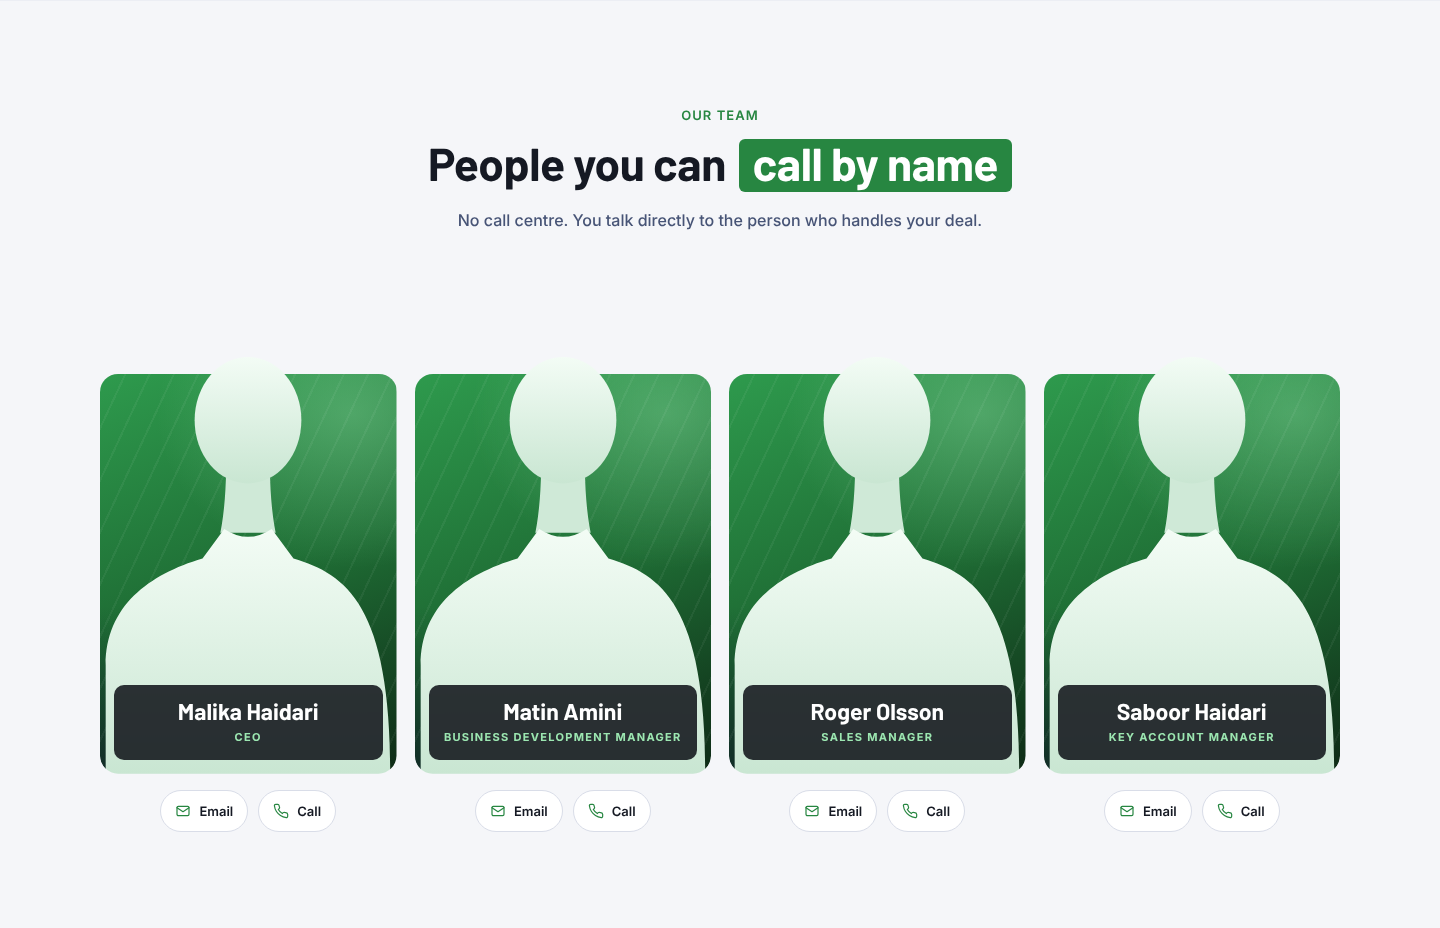
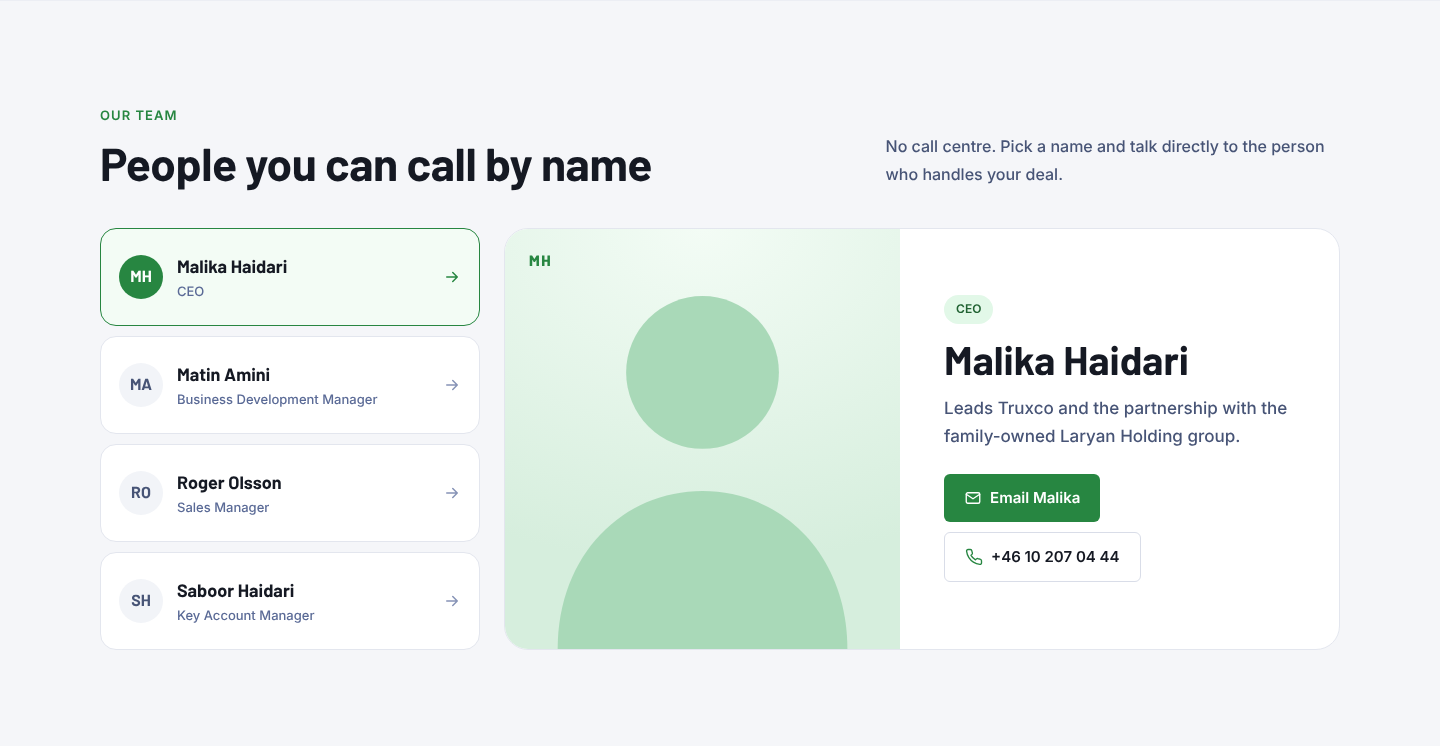
About us: team section uses Spotlight layout (option D)
Claude-Session: https://claude.ai/code/session_01CJrfSMbtJkdqaRmDBKHX4E

diff --git a/truxco-design/website-v2/AboutUs.dc.html b/truxco-design/website-v2/AboutUs.dc.html
@@ -334,6 +334,29 @@ a{color:#3050A6}a:hover{color:#151923}
 @media (max-width: 1080px){.ab-facts{grid-template-columns:repeat(2,minmax(0,1fr));row-gap:22px}.ab-fact:nth-child(3){border-left:0}.ab-team{grid-template-columns:repeat(2,minmax(0,1fr))}.ab-princ{grid-template-columns:repeat(2,minmax(0,1fr))}.ab-story{gap:48px}}
 @media (max-width: 860px){.ab-story,.ab-offices{grid-template-columns:minmax(0,1fr)}.ab-story-img{min-height:460px}.ab-fwd{grid-template-columns:minmax(0,1fr)}.ab-fwd-img{width:100%;height:220px;top:auto;bottom:0}.ab-fwd-shade{background:linear-gradient(180deg,#0E162A 0%,#0E162A 60%,rgba(14,22,42,0.3) 100%)}.ab-fwd-txt{padding:36px 28px 240px}}
 @media (max-width: 600px){.ab-panel{height:360px}.ab-cut{height:450px}.ab-photo{height:280px}.ab-facts{margin:-40px 12px 0;grid-template-columns:minmax(0,1fr);padding:20px}.ab-fact{border-left:0;padding:0}.ab-team,.ab-princ,.ab-mile{grid-template-columns:minmax(0,1fr)}.ab-office{padding:24px}.ab-quote p{font-size:18px}.ab-sec{padding-top:64px!important;padding-bottom:64px!important}}
+
+.d-box{display:grid;grid-template-columns:380px minmax(0,1fr);gap:24px;align-items:stretch}
+.d-list{display:flex;flex-direction:column;gap:10px}
+.d-tab{font:inherit;flex:1;display:flex;align-items:center;gap:14px;padding:16px 18px;border-radius:16px;border:1px solid #E3E6EE;background:#FFFFFF;cursor:pointer;text-align:left;color:#8693B6;transition:border-color .15s,background .15s,color .15s}
+.d-tab:hover{border-color:#C5F1D1}
+.d-tab.on{border-color:#278641;background:#F3FCF5;color:#278641}
+.d-tab:focus-visible{outline:2px solid #278641;outline-offset:3px}
+.d-mini{flex:none;width:44px;height:44px;border-radius:50%;background:#F2F4F8;display:flex;align-items:center;justify-content:center;font-family:'Barlow',sans-serif;font-weight:700;color:#475476;transition:background .15s,color .15s}
+.d-tab.on .d-mini{background:#278641;color:#FFFFFF}
+.d-tx{flex:1;min-width:0;display:flex;flex-direction:column}.d-tx strong{font-family:'Barlow',sans-serif;font-size:18px;color:#151923}.d-tx span{font-size:13px;color:#5A6A96}
+.d-main{display:grid;grid-template-columns:minmax(0,.9fr) minmax(0,1fr);background:#FFFFFF;border:1px solid #E3E6EE;border-radius:24px;overflow:hidden;animation:dIn .35s ease both}
+@keyframes dIn{from{opacity:.4}}
+.d-ph{position:relative;min-height:420px;background:radial-gradient(120% 80% at 50% 0%,#F3FCF5,#D6EEDD)}
+.d-ph svg,.d-ph img{position:absolute;inset:0;width:100%;height:100%;object-fit:cover}
+.d-big{position:absolute;left:24px;top:20px;font-family:'Barlow',sans-serif;font-weight:800;font-size:15px;letter-spacing:.1em;color:#278641}
+.d-info{padding:44px;display:flex;flex-direction:column;justify-content:center;gap:14px}
+.d-tag{align-self:flex-start;font-size:12px;font-weight:600;color:#226333;background:#E2F8E8;padding:5px 12px;border-radius:999px}
+.d-info h3{margin:0;font-family:'Barlow',sans-serif;font-size:40px;font-weight:700;line-height:1.05;color:#151923}
+.d-info p{margin:0;font-size:17px;line-height:1.65;color:#475476}
+.d-act{display:flex;flex-wrap:wrap;gap:10px;margin-top:10px}
+@media (prefers-reduced-motion: reduce){.d-main{animation:none}}
+@media (max-width: 1080px){.d-box{grid-template-columns:minmax(0,1fr)}.d-list{display:grid;grid-template-columns:repeat(2,minmax(0,1fr))}}
+@media (max-width: 700px){.d-list{grid-template-columns:minmax(0,1fr)}.d-main{grid-template-columns:minmax(0,1fr)}.d-ph{min-height:300px}.d-info{padding:28px 24px}.d-info h3{font-size:32px}}
 </style>
 </helmet>
 <div id="tx-root" style="position: relative; font-family: Inter, system-ui, sans-serif; color: #151923; background: #F5F6F9; font-size: 16px; font-weight: 500; line-height: 1.55">
@@ -449,11 +472,15 @@ a{color:#3050A6}a:hover{color:#151923}
 <!-- TEAM -->
 <section id="team" class="ab-sec" aria-labelledby="ab-team-h" style="padding: 104px 24px 96px">
 <div class="ab-wrap" style="display: flex; flex-direction: column; gap: 40px">
-<div style="display: flex; flex-direction: column; align-items: center; text-align: center; gap: 14px">
-<span class="ab-eyebrow">Our team</span><h2 id="ab-team-h" class="ab-h2">People you can <span class="ab-hl">call by name</span></h2>
-<p class="ab-p" style="max-width: 52ch">No call centre. You talk directly to the person who handles your deal.</p>
+<div style="display: flex; flex-wrap: wrap; justify-content: space-between; align-items: flex-end; gap: 20px 48px"><div style="display: flex; flex-direction: column; gap: 14px">
+<span class="ab-eyebrow">Our team</span><h2 id="ab-team-h" class="ab-h2">People you can call by name</h2>
+</div><p class="ab-p" style="max-width: 44ch">No call centre. Pick a name and talk directly to the person who handles your deal.</p>
 </div>
-<div class="ab-team"><article class="ab-person"><div class="ab-panel"><div class="ab-cut" role="img" aria-label="Photo of Malika Haidari"><svg aria-hidden="true" viewBox="0 0 300 470" preserveAspectRatio="xMidYMax meet"><defs><linearGradient id="abSil" x1="0" y1="0" x2="0" y2="1"><stop offset="0" stop-color="#F3FCF5"></stop><stop offset="1" stop-color="#C9E6D2"></stop></linearGradient></defs><path d="M128 150 Q128 196 122 226 L178 226 Q172 196 172 150Z" fill="#CFE9D7"></path><ellipse cx="150" cy="112" rx="54" ry="64" fill="url(#abSil)"></ellipse><path d="M6 470 L6 360 C6 300 50 268 104 252 L126 222 Q150 238 174 222 L196 252 C250 268 294 300 294 470Z" fill="url(#abSil)"></path></svg></div><div class="ab-tag2"><h3>Malika Haidari</h3><span class="ab-role">CEO</span></div></div><div class="ab-links"><a class="ab-link" href="mailto:malika@truxco.se" aria-label="Email Malika Haidari"><svg aria-hidden="true" width="20" height="20" viewBox="0 0 24 24" fill="none" stroke="#278641" stroke-width="1.8" stroke-linecap="round" stroke-linejoin="round" style="flex: none"><rect x="3" y="5" width="18" height="14" rx="2"></rect><path d="M3 7l9 6 9-6"></path></svg>Email</a><a class="ab-link" href="tel:+46102070444" aria-label="Call Malika Haidari"><svg aria-hidden="true" width="20" height="20" viewBox="0 0 24 24" fill="none" stroke="#278641" stroke-width="1.8" stroke-linecap="round" stroke-linejoin="round" style="flex: none"><path d="M22 16.9v3a2 2 0 0 1-2.2 2 19.8 19.8 0 0 1-8.6-3.1 19.5 19.5 0 0 1-6-6A19.8 19.8 0 0 1 2.1 4.2 2 2 0 0 1 4.1 2h3a2 2 0 0 1 2 1.7c.1.9.4 1.8.7 2.7a2 2 0 0 1-.5 2.1L8 9.8a16 16 0 0 0 6 6l1.3-1.3a2 2 0 0 1 2.1-.4c.9.3 1.8.6 2.7.7a2 2 0 0 1 1.7 2z"></path></svg>Call</a></div></article><article class="ab-person"><div class="ab-panel"><div class="ab-cut" role="img" aria-label="Photo of Matin Amini"><svg aria-hidden="true" viewBox="0 0 300 470" preserveAspectRatio="xMidYMax meet"><defs><linearGradient id="abSil" x1="0" y1="0" x2="0" y2="1"><stop offset="0" stop-color="#F3FCF5"></stop><stop offset="1" stop-color="#C9E6D2"></stop></linearGradient></defs><path d="M128 150 Q128 196 122 226 L178 226 Q172 196 172 150Z" fill="#CFE9D7"></path><ellipse cx="150" cy="112" rx="54" ry="64" fill="url(#abSil)"></ellipse><path d="M6 470 L6 360 C6 300 50 268 104 252 L126 222 Q150 238 174 222 L196 252 C250 268 294 300 294 470Z" fill="url(#abSil)"></path></svg></div><div class="ab-tag2"><h3>Matin Amini</h3><span class="ab-role">Business Development Manager</span></div></div><div class="ab-links"><a class="ab-link" href="mailto:matin@truxco.se" aria-label="Email Matin Amini"><svg aria-hidden="true" width="20" height="20" viewBox="0 0 24 24" fill="none" stroke="#278641" stroke-width="1.8" stroke-linecap="round" stroke-linejoin="round" style="flex: none"><rect x="3" y="5" width="18" height="14" rx="2"></rect><path d="M3 7l9 6 9-6"></path></svg>Email</a><a class="ab-link" href="tel:+46102070444" aria-label="Call Matin Amini"><svg aria-hidden="true" width="20" height="20" viewBox="0 0 24 24" fill="none" stroke="#278641" stroke-width="1.8" stroke-linecap="round" stroke-linejoin="round" style="flex: none"><path d="M22 16.9v3a2 2 0 0 1-2.2 2 19.8 19.8 0 0 1-8.6-3.1 19.5 19.5 0 0 1-6-6A19.8 19.8 0 0 1 2.1 4.2 2 2 0 0 1 4.1 2h3a2 2 0 0 1 2 1.7c.1.9.4 1.8.7 2.7a2 2 0 0 1-.5 2.1L8 9.8a16 16 0 0 0 6 6l1.3-1.3a2 2 0 0 1 2.1-.4c.9.3 1.8.6 2.7.7a2 2 0 0 1 1.7 2z"></path></svg>Call</a></div></article><article class="ab-person"><div class="ab-panel"><div class="ab-cut" role="img" aria-label="Photo of Roger Olsson"><svg aria-hidden="true" viewBox="0 0 300 470" preserveAspectRatio="xMidYMax meet"><defs><linearGradient id="abSil" x1="0" y1="0" x2="0" y2="1"><stop offset="0" stop-color="#F3FCF5"></stop><stop offset="1" stop-color="#C9E6D2"></stop></linearGradient></defs><path d="M128 150 Q128 196 122 226 L178 226 Q172 196 172 150Z" fill="#CFE9D7"></path><ellipse cx="150" cy="112" rx="54" ry="64" fill="url(#abSil)"></ellipse><path d="M6 470 L6 360 C6 300 50 268 104 252 L126 222 Q150 238 174 222 L196 252 C250 268 294 300 294 470Z" fill="url(#abSil)"></path></svg></div><div class="ab-tag2"><h3>Roger Olsson</h3><span class="ab-role">Sales Manager</span></div></div><div class="ab-links"><a class="ab-link" href="mailto:roger@truxco.se" aria-label="Email Roger Olsson"><svg aria-hidden="true" width="20" height="20" viewBox="0 0 24 24" fill="none" stroke="#278641" stroke-width="1.8" stroke-linecap="round" stroke-linejoin="round" style="flex: none"><rect x="3" y="5" width="18" height="14" rx="2"></rect><path d="M3 7l9 6 9-6"></path></svg>Email</a><a class="ab-link" href="tel:+46102070444" aria-label="Call Roger Olsson"><svg aria-hidden="true" width="20" height="20" viewBox="0 0 24 24" fill="none" stroke="#278641" stroke-width="1.8" stroke-linecap="round" stroke-linejoin="round" style="flex: none"><path d="M22 16.9v3a2 2 0 0 1-2.2 2 19.8 19.8 0 0 1-8.6-3.1 19.5 19.5 0 0 1-6-6A19.8 19.8 0 0 1 2.1 4.2 2 2 0 0 1 4.1 2h3a2 2 0 0 1 2 1.7c.1.9.4 1.8.7 2.7a2 2 0 0 1-.5 2.1L8 9.8a16 16 0 0 0 6 6l1.3-1.3a2 2 0 0 1 2.1-.4c.9.3 1.8.6 2.7.7a2 2 0 0 1 1.7 2z"></path></svg>Call</a></div></article><article class="ab-person"><div class="ab-panel"><div class="ab-cut" role="img" aria-label="Photo of Saboor Haidari"><svg aria-hidden="true" viewBox="0 0 300 470" preserveAspectRatio="xMidYMax meet"><defs><linearGradient id="abSil" x1="0" y1="0" x2="0" y2="1"><stop offset="0" stop-color="#F3FCF5"></stop><stop offset="1" stop-color="#C9E6D2"></stop></linearGradient></defs><path d="M128 150 Q128 196 122 226 L178 226 Q172 196 172 150Z" fill="#CFE9D7"></path><ellipse cx="150" cy="112" rx="54" ry="64" fill="url(#abSil)"></ellipse><path d="M6 470 L6 360 C6 300 50 268 104 252 L126 222 Q150 238 174 222 L196 252 C250 268 294 300 294 470Z" fill="url(#abSil)"></path></svg></div><div class="ab-tag2"><h3>Saboor Haidari</h3><span class="ab-role">Key Account Manager</span></div></div><div class="ab-links"><a class="ab-link" href="mailto:saboor@truxco.se" aria-label="Email Saboor Haidari"><svg aria-hidden="true" width="20" height="20" viewBox="0 0 24 24" fill="none" stroke="#278641" stroke-width="1.8" stroke-linecap="round" stroke-linejoin="round" style="flex: none"><rect x="3" y="5" width="18" height="14" rx="2"></rect><path d="M3 7l9 6 9-6"></path></svg>Email</a><a class="ab-link" href="tel:+46102070444" aria-label="Call Saboor Haidari"><svg aria-hidden="true" width="20" height="20" viewBox="0 0 24 24" fill="none" stroke="#278641" stroke-width="1.8" stroke-linecap="round" stroke-linejoin="round" style="flex: none"><path d="M22 16.9v3a2 2 0 0 1-2.2 2 19.8 19.8 0 0 1-8.6-3.1 19.5 19.5 0 0 1-6-6A19.8 19.8 0 0 1 2.1 4.2 2 2 0 0 1 4.1 2h3a2 2 0 0 1 2 1.7c.1.9.4 1.8.7 2.7a2 2 0 0 1-.5 2.1L8 9.8a16 16 0 0 0 6 6l1.3-1.3a2 2 0 0 1 2.1-.4c.9.3 1.8.6 2.7.7a2 2 0 0 1 1.7 2z"></path></svg>Call</a></div></article></div>
+<div class="d-box"><div class="d-list" role="tablist" aria-label="Team">
+<sc-for list="{{team}}" as="t" hint-placeholder-count="4"><button type="button" role="tab" aria-selected="{{t.sel}}" class="d-tab {{t.cls}}" onClick="{{t.pick}}"><span class="d-mini">{{t.i}}</span><span class="d-tx"><strong>{{t.n}}</strong><span>{{t.r}}</span></span><svg aria-hidden="true" width="18" height="18" viewBox="0 0 24 24" fill="none" stroke="currentColor" stroke-width="2" stroke-linecap="round" stroke-linejoin="round" style="flex: none"><path d="M5 12h14M13 6l6 6-6 6"></path></svg></button></sc-for>
+</div>
+<div class="d-main" role="tabpanel" aria-label="{{cur.n}}"><div class="d-ph" role="img" aria-label="Photo of {{cur.n}}"><svg aria-hidden="true" viewBox="0 0 300 360" preserveAspectRatio="xMidYMax slice"><circle cx="150" cy="150" r="58" fill="#A9D9B8"></circle><path d="M40 360c0-72 50-120 110-120s110 48 110 120z" fill="#A9D9B8"></path></svg><span class="d-big">{{cur.i}}</span></div><div class="d-info"><span class="d-tag">{{cur.r}}</span><h3>{{cur.n}}</h3><p>{{cur.b}}</p><div class="d-act"><a href="mailto:{{cur.e}}" class="ab-btn"><svg aria-hidden="true" width="18" height="18" viewBox="0 0 24 24" fill="none" stroke="#FFFFFF" stroke-width="1.8" stroke-linecap="round" stroke-linejoin="round" style="flex: none"><rect x="3" y="5" width="18" height="14" rx="2"></rect><path d="M3 7l9 6 9-6"></path></svg>Email {{cur.f}}</a><a href="tel:+46102070444" class="ab-btn2"><svg aria-hidden="true" width="18" height="18" viewBox="0 0 24 24" fill="none" stroke="#278641" stroke-width="1.8" stroke-linecap="round" stroke-linejoin="round" style="flex: none"><path d="M22 16.9v3a2 2 0 0 1-2.2 2 19.8 19.8 0 0 1-8.6-3.1 19.5 19.5 0 0 1-6-6A19.8 19.8 0 0 1 2.1 4.2 2 2 0 0 1 4.1 2h3a2 2 0 0 1 2 1.7c.1.9.4 1.8.7 2.7a2 2 0 0 1-.5 2.1L8 9.8a16 16 0 0 0 6 6l1.3-1.3a2 2 0 0 1 2.1-.4c.9.3 1.8.6 2.7.7a2 2 0 0 1 1.7 2z"></path></svg>+46 10 207 04 44</a></div></div></div>
+</div>
 </div>
 </section>
 
@@ -717,6 +744,20 @@ class Component extends DCLogic {
       ctBookVisit: () => { this.setState({ ctTopic: 'visit', ctSent: false }); try { const el = document.getElementById('ct-form-h'); if (el) el.scrollIntoView({ behavior: 'smooth', block: 'center' }); } catch (e) {} }
     };
   }
+  teamVals() {
+    const T = [
+      ['MH', 'Malika Haidari', 'CEO', 'malika@truxco.se', 'Leads Truxco and the partnership with the family-owned Laryan Holding group.'],
+      ['MA', 'Matin Amini', 'Business Development Manager', 'matin@truxco.se', 'New markets, fleet deals and electric bus projects.'],
+      ['RO', 'Roger Olsson', 'Sales Manager', 'roger@truxco.se', 'Your contact for buying and selling used buses.'],
+      ['SH', 'Saboor Haidari', 'Key Account Manager', 'saboor@truxco.se', 'Looks after operators with ongoing fleet needs.']
+    ];
+    const k = (this.state && this.state.who) || 0;
+    const m = (t) => ({ i: t[0], n: t[1], r: t[2], e: t[3], b: t[4], f: t[1].split(' ')[0] });
+    return {
+      team: T.map((t, j) => ({ ...m(t), sel: j === k ? 'true' : 'false', cls: j === k ? 'on' : '', pick: () => this.setState({ who: j }) })),
+      cur: m(T[k])
+    };
+  }
   renderVals() {
     const busRun = (this.state && this.state.busRun) || 0;
     return {
@@ -724,6 +765,7 @@ class Component extends DCLogic {
       ...this.listVals(),
       ...this.detailVals(),
       ...this.contactVals(),
+      ...this.teamVals(),
       tPrev: () => this.tScroll(-1),
       tNext: () => this.tScroll(1),
       tPrevDis: (this.state && this.state.tStart !== false) ? 'true' : 'false',
